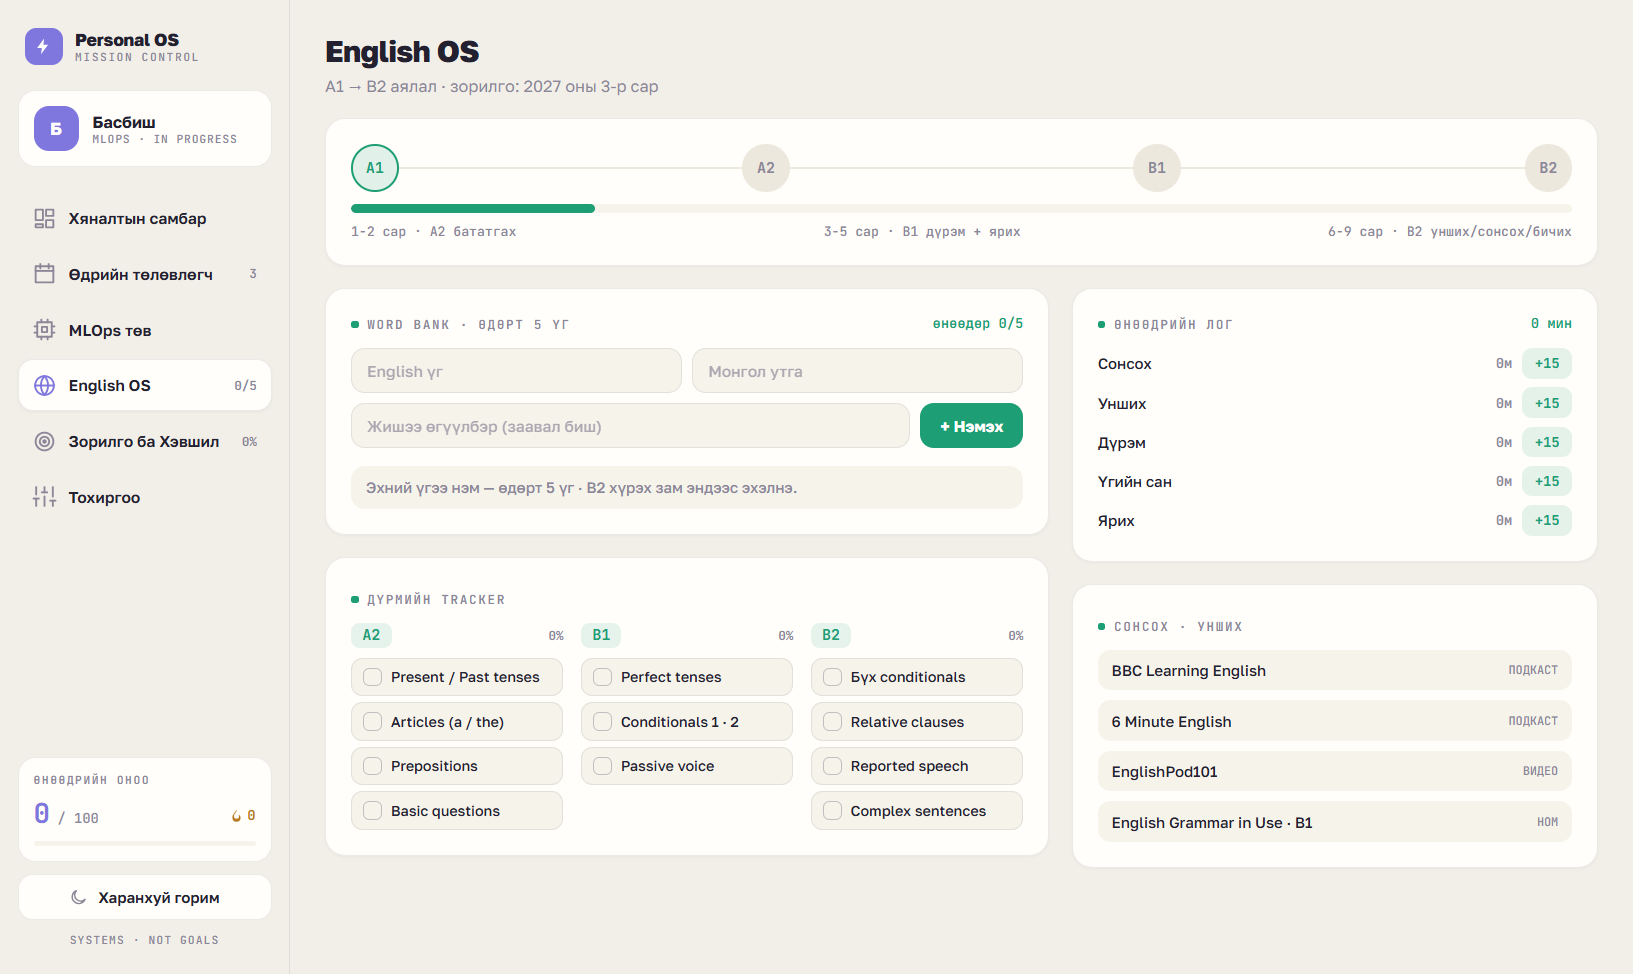
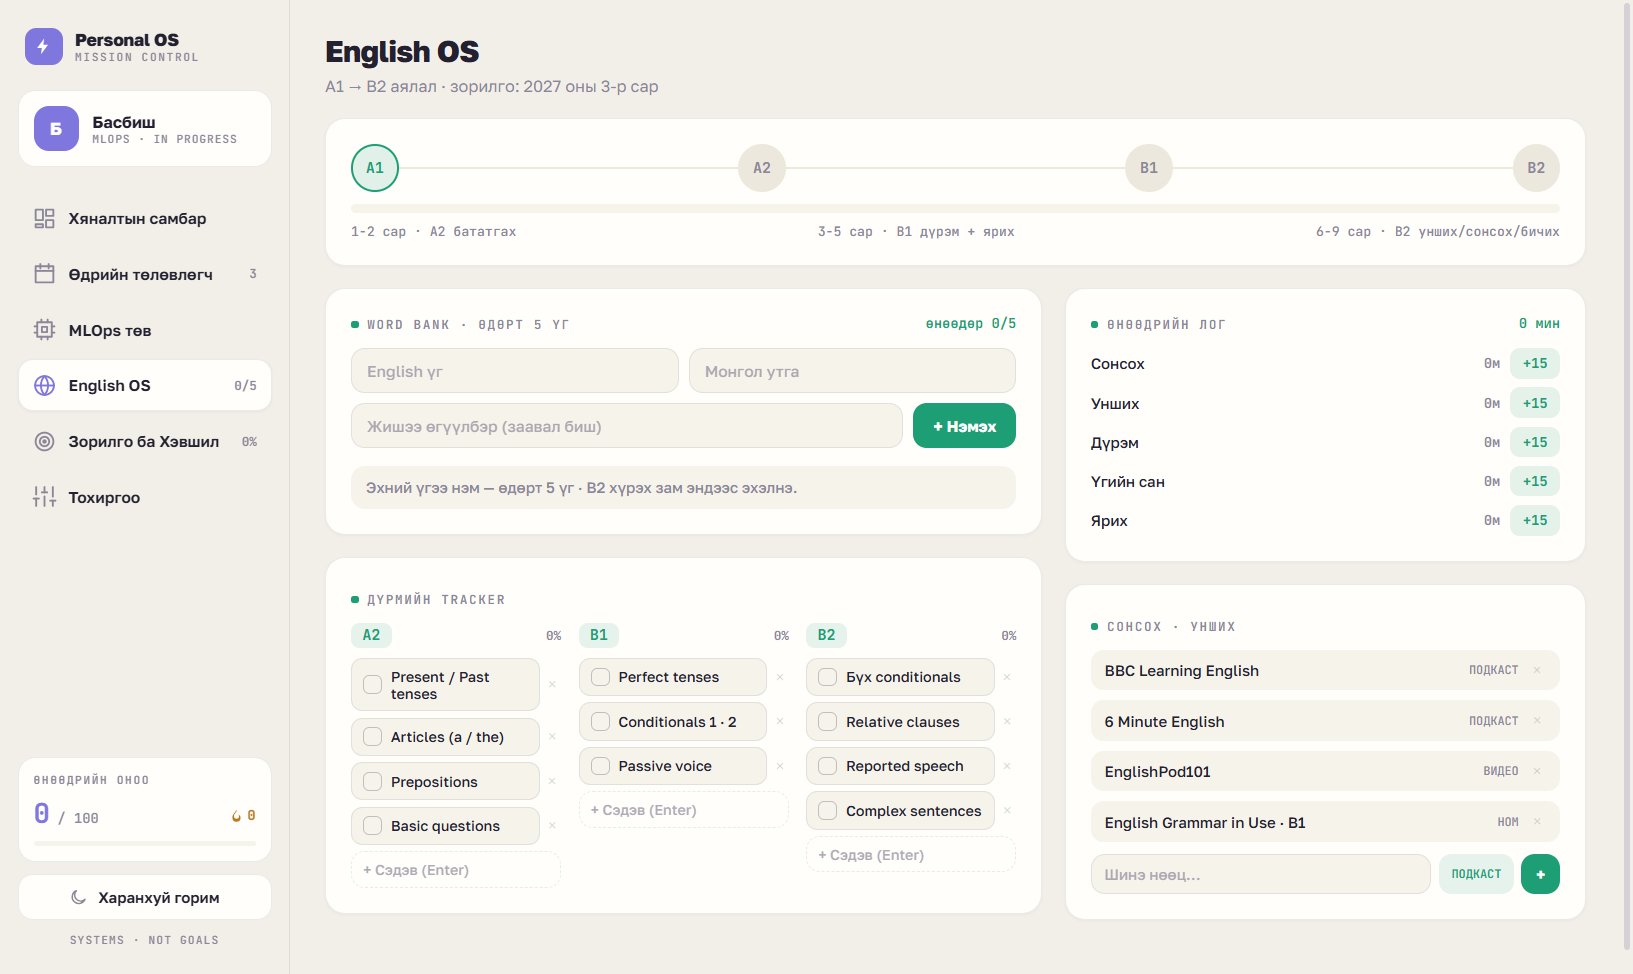
Make grammar topics, study resources and time blocks fully editable
- Grammar tracker: add topics per level (Enter to add), delete any topic
- Listening/Reading resources moved into user data: add with type
  (podcast/video/book/site/course), delete; migration keeps user edits
- Planner time blocks: inline edit mode (times, names, delete, quick-add)
  without leaving the planner; shared TimeField/DelBtn components
- Tests: migration coverage for resources (32 passing)

diff --git a/src/views/English.tsx b/src/views/English.tsx
@@ -5,19 +5,18 @@ import { FONT, MONO, WORDST, WCOL, checkbox, inputSt, primaryBtn } from '../them
 import { td } from '../lib/dates';
 import { wordsToday, engToday, engLevel } from '../lib/derive';
 import { IconX } from '../icons';
+import { DelBtn } from '../components/bits';
 
-const RESOURCES = [
-  { t: 'BBC Learning English', k: 'ПОДКАСТ' },
-  { t: '6 Minute English', k: 'ПОДКАСТ' },
-  { t: 'EnglishPod101', k: 'ВИДЕО' },
-  { t: 'English Grammar in Use · B1', k: 'НОМ' }
-];
+const RES_KINDS = ['ПОДКАСТ', 'ВИДЕО', 'НОМ', 'САЙТ', 'КУРС'];
 
 export function English() {
   const { d, commit, p } = useStore();
   const [en, setEn] = useState('');
   const [mn, setMn] = useState('');
   const [ex, setEx] = useState('');
+  const [newGr, setNewGr] = useState<Record<string, string>>({});
+  const [newRes, setNewRes] = useState('');
+  const [resKind, setResKind] = useState(0);
   const wt = wordsToday(d);
   const lvl = engLevel(d);
 
@@ -26,6 +25,24 @@ export function English() {
     const id = d.words.reduce((m, w) => Math.max(m, w.id), 0) + 1;
     d.words.unshift({ id, en: en.trim(), mn: mn.trim() || '—', ex: ex.trim(), st: 0, date: td(0) });
     setEn(''); setMn(''); setEx('');
+    commit();
+  };
+
+  const addGrammar = (lv: string) => {
+    const t = (newGr[lv] || '').trim();
+    if (!t) return;
+    const gr = d.grammar.find(g => g.lv === lv);
+    if (!gr) return;
+    gr.items.push({ t, on: false });
+    setNewGr({ ...newGr, [lv]: '' });
+    commit();
+  };
+
+  const addResource = () => {
+    if (!newRes.trim()) return;
+    const id = d.resources.reduce((m, r) => Math.max(m, r.id), 0) + 1;
+    d.resources.push({ id, t: newRes.trim(), k: RES_KINDS[resKind] });
+    setNewRes('');
     commit();
   };
 
@@ -100,7 +117,7 @@ export function English() {
             </div>
           </Card>
 
-          {/* Дүрмийн tracker */}
+          {/* Дүрмийн tracker — сэдэв нэмж/хасаж болно */}
           <Card>
             <SecLabel color={p.a2}>Дүрмийн tracker</SecLabel>
             <div style={{ display: 'grid', gridTemplateColumns: 'repeat(auto-fit,minmax(160px,1fr))', gap: 14 }}>
@@ -110,16 +127,22 @@ export function English() {
                   <div key={gr.lv} style={{ minWidth: 0 }}>
                     <div style={{ display: 'flex', alignItems: 'baseline', justifyContent: 'space-between', marginBottom: 8 }}>
                       <span style={{ font: `700 12px ${MONO}`, padding: '2px 9px', borderRadius: 7, background: p.a2 + '1c', color: p.a2 }}>{gr.lv}</span>
-                      <span style={{ font: `600 10px ${MONO}`, color: 'var(--tx2)' }}>{Math.round(on / gr.items.length * 100)}%</span>
+                      <span style={{ font: `600 10px ${MONO}`, color: 'var(--tx2)' }}>{gr.items.length ? Math.round(on / gr.items.length * 100) : 0}%</span>
                     </div>
                     <div style={{ display: 'flex', flexDirection: 'column', gap: 5 }}>
-                      {gr.items.map(gi => (
-                        <button key={gi.t} className="hv-line-acc2" onClick={() => { gi.on = !gi.on; commit(); }}
-                          style={{ display: 'flex', alignItems: 'center', gap: 7, padding: '7px 9px', borderRadius: 9, border: '1px solid var(--line)', background: 'var(--panel2)', textAlign: 'left', color: 'var(--tx)' }}>
-                          <span style={checkbox(gi.on, p.a2, p.dark, 15, 5)}>{gi.on ? '✓' : ''}</span>
-                          <span style={{ font: `500 11.5px ${FONT}`, textDecoration: gi.on ? 'line-through' : 'none', opacity: gi.on ? .55 : 1 }}>{gi.t}</span>
-                        </button>
+                      {gr.items.map((gi, gii) => (
+                        <div key={gii} style={{ display: 'flex', alignItems: 'center', gap: 3 }}>
+                          <button className="hv-line-acc2" onClick={() => { gi.on = !gi.on; commit(); }}
+                            style={{ display: 'flex', alignItems: 'center', gap: 7, flex: 1, minWidth: 0, padding: '7px 9px', borderRadius: 9, border: '1px solid var(--line)', background: 'var(--panel2)', textAlign: 'left', color: 'var(--tx)' }}>
+                            <span style={checkbox(gi.on, p.a2, p.dark, 15, 5)}>{gi.on ? '✓' : ''}</span>
+                            <span style={{ font: `500 11.5px ${FONT}`, textDecoration: gi.on ? 'line-through' : 'none', opacity: gi.on ? .55 : 1 }}>{gi.t}</span>
+                          </button>
+                          <DelBtn onClick={() => { gr.items.splice(gii, 1); commit(); }} size={10} />
+                        </div>
                       ))}
+                      <input value={newGr[gr.lv] || ''} onChange={e => setNewGr({ ...newGr, [gr.lv]: e.target.value })}
+                        onKeyDown={e => { if (e.key === 'Enter') addGrammar(gr.lv); }}
+                        placeholder="+ Сэдэв (Enter)" style={{ ...inputSt, padding: '7px 9px', font: `500 11.5px ${FONT}`, background: 'transparent', border: '1px dashed var(--line)' }} />
                     </div>
                   </div>
                 );
@@ -143,16 +166,27 @@ export function English() {
               ))}
             </div>
           </Card>
-          {/* Нөөцүүд */}
+          {/* Нөөцүүд — нэмж/хасаж болно */}
           <Card>
             <SecLabel color={p.a2}>Сонсох · Унших</SecLabel>
             <div style={{ display: 'flex', flexDirection: 'column', gap: 8, font: `500 12px ${FONT}` }}>
-              {RESOURCES.map(r => (
-                <div key={r.t} style={{ display: 'flex', alignItems: 'center', gap: 8, padding: '9px 11px', borderRadius: 10, background: 'var(--panel2)' }}>
-                  <span style={{ flex: 1, minWidth: 0 }}>{r.t}</span>
-                  <span style={{ font: `500 9.5px ${MONO}`, color: 'var(--tx2)' }}>{r.k}</span>
+              {d.resources.map(r => (
+                <div key={r.id} style={{ display: 'flex', alignItems: 'center', gap: 8, padding: '9px 11px', borderRadius: 10, background: 'var(--panel2)' }}>
+                  <span style={{ flex: 1, minWidth: 0, whiteSpace: 'nowrap', overflow: 'hidden', textOverflow: 'ellipsis' }}>{r.t}</span>
+                  <span style={{ font: `500 9.5px ${MONO}`, color: 'var(--tx2)', flex: 'none' }}>{r.k}</span>
+                  <DelBtn onClick={() => { d.resources = d.resources.filter(x => x.id !== r.id); commit(); }} size={10} />
                 </div>
               ))}
+            </div>
+            <div style={{ display: 'flex', gap: 6, marginTop: 10, flexWrap: 'wrap' }}>
+              <input value={newRes} onChange={e => setNewRes(e.target.value)} onKeyDown={e => { if (e.key === 'Enter') addResource(); }}
+                placeholder="Шинэ нөөц…" style={{ ...inputSt, flex: '1 1 110px', padding: '8px 10px', font: `500 12px ${FONT}` }} />
+              <button onClick={() => setResKind((resKind + 1) % RES_KINDS.length)}
+                style={{ flex: 'none', padding: '8px 10px', borderRadius: 10, border: 'none', background: p.a2 + '1c', color: 'var(--acc2)', font: `600 9.5px ${MONO}` }}>
+                {RES_KINDS[resKind]}
+              </button>
+              <button className="hv-bright" onClick={addResource}
+                style={{ ...primaryBtn('var(--acc2)'), padding: '8px 12px', font: `700 12px ${FONT}` }}>+</button>
             </div>
           </Card>
         </div>

diff --git a/src/views/Planner.tsx b/src/views/Planner.tsx
@@ -1,7 +1,7 @@
 import React, { useState } from 'react';
 import { useStore } from '../data/store';
 import { Card, SecLabel, PageHead, Screen } from '../components/ui';
-import { TaskRow, kvRow, kvKey, kvVal } from '../components/bits';
+import { TaskRow, kvRow, kvKey, kvVal, TimeField, DelBtn } from '../components/bits';
 import { FONT, MONO, AREAS, ACOL, PRIS, PCOL, checkbox, inputSt, primaryBtn, chip } from '../theme';
 import { td, toMin } from '../lib/dates';
 import { taskStats, overdueTasks, habitStats, blockNow, engToday } from '../lib/derive';
@@ -11,6 +11,8 @@ export function Planner() {
   const [newTask, setNewTask] = useState('');
   const [areaIdx, setAreaIdx] = useState(0);
   const [priIdx, setPriIdx] = useState(1);
+  const [editBlocks, setEditBlocks] = useState(false);
+  const [newBlockT, setNewBlockT] = useState('');
 
   const ts = taskStats(d);
   const hs = habitStats(d);
@@ -32,13 +34,29 @@ export function Planner() {
       <PageHead title="Өдрийн төлөвлөгч" sub="«Өглөө утас харахгүй байх нь хамгийн том ялалт.»" />
       <div style={{ display: 'flex', flexWrap: 'wrap', gap: 18, alignItems: 'flex-start' }}>
 
-        {/* Цагийн блокууд */}
+        {/* Цагийн блокууд — шууд эндээс нэмж/засаж/устгана */}
         <Card style={{ flex: '1 1 230px' }}>
-          <SecLabel color={p.a1}>Цагийн блокууд</SecLabel>
+          <SecLabel color={p.a1} right={
+            <button onClick={() => setEditBlocks(!editBlocks)}
+              style={{ border: 'none', borderRadius: 8, padding: '3px 10px', background: editBlocks ? 'var(--acc1)' : p.a1 + '1c', color: editBlocks ? '#fff' : 'var(--acc1)', font: `700 10px ${MONO}` }}>
+              {editBlocks ? 'Болсон' : 'Засах'}
+            </button>
+          }>Цагийн блокууд</SecLabel>
           <div style={{ display: 'flex', flexDirection: 'column', gap: 6 }}>
-            {d.blocks.map(b => {
+            {[...d.blocks].sort((a, b) => a.s.localeCompare(b.s)).map(b => {
               const active = mins >= toMin(b.s) && mins < toMin(b.e);
               const past = mins >= toMin(b.e);
+              if (editBlocks) {
+                return (
+                  <div key={b.id} style={{ display: 'flex', alignItems: 'center', gap: 4, padding: '5px 6px', borderRadius: 11, background: 'var(--panel2)' }}>
+                    <TimeField value={b.s} onChange={v => { b.s = v; commit(); }} />
+                    <TimeField value={b.e} onChange={v => { b.e = v; commit(); }} />
+                    <input value={b.t} onChange={e => { b.t = e.target.value; commit(); }}
+                      style={{ ...inputSt, flex: 1, padding: '6px 8px', font: `500 12px ${FONT}`, background: 'var(--panel)' }} />
+                    <DelBtn onClick={() => { d.blocks = d.blocks.filter(x => x.id !== b.id); commit(); }} />
+                  </div>
+                );
+              }
               return (
                 <div key={b.id} style={{ display: 'flex', alignItems: 'center', gap: 8, padding: '9px 11px', borderRadius: 11, background: active ? p.a1 + '16' : 'var(--panel2)', border: '1px solid ' + (active ? p.a1 + '66' : 'transparent'), opacity: past ? .5 : 1 }}>
                   <span style={{ font: `600 10.5px ${MONO}`, width: 76, flex: 'none', color: 'var(--tx2)' }}>{b.s}–{b.e}</span>
@@ -47,6 +65,21 @@ export function Planner() {
                 </div>
               );
             })}
+            {editBlocks && (
+              <div style={{ display: 'flex', gap: 6, marginTop: 4 }}>
+                <input value={newBlockT} onChange={e => setNewBlockT(e.target.value)}
+                  onKeyDown={e => {
+                    if (e.key === 'Enter' && newBlockT.trim()) {
+                      const id = d.blocks.reduce((m, x) => Math.max(m, x.id), 0) + 1;
+                      const lastE = [...d.blocks].sort((a, b) => a.e.localeCompare(b.e)).pop()?.e || '18:00';
+                      d.blocks.push({ id, s: lastE === '23:59' ? '18:00' : lastE, e: '23:59', t: newBlockT.trim() });
+                      setNewBlockT('');
+                      commit();
+                    }
+                  }}
+                  placeholder="+ Шинэ блок (Enter)" style={{ ...inputSt, flex: 1, padding: '8px 10px', font: `500 12px ${FONT}`, background: 'transparent', border: '1px dashed var(--line)' }} />
+              </div>
+            )}
           </div>
         </Card>
 

diff --git a/src/components/bits.tsx b/src/components/bits.tsx
@@ -1,7 +1,7 @@
-import React, { CSSProperties } from 'react';
+import React, { CSSProperties, useEffect, useState } from 'react';
 import { useStore } from '../data/store';
 import { Task } from '../types';
-import { FONT, MONO, ACOL, PCOL, checkbox, chip } from '../theme';
+import { FONT, MONO, ACOL, PCOL, checkbox, chip, inputSt } from '../theme';
 import { IconX } from '../icons';
 
 /** Даалгаврын мөр — Dashboard болон Planner-т хамтдаа хэрэглэнэ */
@@ -52,3 +52,34 @@ export function GoBtn({ onClick, hvClass, children }: { onClick: () => void; hvC
 export const kvRow: CSSProperties = { display: 'flex', justifyContent: 'space-between', gap: 8 };
 export const kvKey: CSSProperties = { color: 'var(--tx2)' };
 export const kvVal: CSSProperties = { fontFamily: MONO, fontWeight: 700 };
+
+export const timeInputSt: CSSProperties = { ...inputSt, padding: '6px 8px', font: `600 12px ${MONO}`, width: 62, flex: 'none', textAlign: 'center' };
+
+/** 24 цагийн HH:MM текст input — Windows-ийн 12ц локалиас хамаарахгүй */
+export function TimeField({ value, onChange }: { value: string; onChange: (v: string) => void }) {
+  const [txt, setTxt] = useState(value);
+  useEffect(() => setTxt(value), [value]);
+  const done = () => {
+    const m = /^(\d{1,2})[:.]?(\d{2})$/.exec(txt.trim());
+    if (m) {
+      const v = String(Math.min(23, parseInt(m[1]))).padStart(2, '0') + ':' + String(Math.min(59, parseInt(m[2]))).padStart(2, '0');
+      setTxt(v);
+      if (v !== value) onChange(v);
+    } else setTxt(value);
+  };
+  return (
+    <input value={txt} onChange={e => setTxt(e.target.value)} onBlur={done}
+      onKeyDown={e => { if (e.key === 'Enter') (e.target as HTMLInputElement).blur(); }}
+      placeholder="HH:MM" style={timeInputSt} />
+  );
+}
+
+/** Жижиг устгах товч (hover-т улаан) */
+export function DelBtn({ onClick, size = 11, opacity = .35 }: { onClick: () => void; size?: number; opacity?: number }) {
+  return (
+    <button className="hv-red" title="Устгах" onClick={onClick}
+      style={{ border: 'none', background: 'none', color: 'var(--tx2)', opacity, padding: 2, display: 'inline-flex', borderRadius: 5, flex: 'none' }}>
+      <IconX size={size} />
+    </button>
+  );
+}

diff --git a/src/views/Settings.tsx b/src/views/Settings.tsx
@@ -5,6 +5,7 @@ import { FONT, MONO, inputSt, primaryBtn } from '../theme';
 import { DAY_NAMES } from '../lib/dates';
 import { IconX, IconBell, IconDownload, IconUpload } from '../icons';
 import { Reminder } from '../types';
+import { TimeField } from '../components/bits';
 
 function Toggle({ on, onChange, color = 'var(--acc2)' }: { on: boolean; onChange: (v: boolean) => void; color?: string }) {
   return (
@@ -19,26 +20,6 @@ function Row({ children }: { children: React.ReactNode }) {
   return <div style={{ display: 'flex', alignItems: 'center', gap: 10, padding: '10px 12px', borderRadius: 11, background: 'var(--panel2)' }}>{children}</div>;
 }
 
-const timeInputSt: React.CSSProperties = { ...inputSt, padding: '6px 8px', font: `600 12px 'JetBrains Mono', monospace`, width: 62, flex: 'none', textAlign: 'center' };
-
-/** 24 цагийн HH:MM текст input — Windows-ийн 12ц локалиас хамаарахгүй */
-function TimeField({ value, onChange }: { value: string; onChange: (v: string) => void }) {
-  const [txt, setTxt] = useState(value);
-  useEffect(() => setTxt(value), [value]);
-  const done = () => {
-    const m = /^(\d{1,2})[:.]?(\d{2})$/.exec(txt.trim());
-    if (m) {
-      const v = String(Math.min(23, parseInt(m[1]))).padStart(2, '0') + ':' + String(Math.min(59, parseInt(m[2]))).padStart(2, '0');
-      setTxt(v);
-      if (v !== value) onChange(v);
-    } else setTxt(value);
-  };
-  return (
-    <input value={txt} onChange={e => setTxt(e.target.value)} onBlur={done}
-      onKeyDown={e => { if (e.key === 'Enter') (e.target as HTMLInputElement).blur(); }}
-      placeholder="HH:MM" style={timeInputSt} />
-  );
-}
 
 export function Settings() {
   const { d, commit, p, replaceData } = useStore();

diff --git a/src/data/defaults.ts b/src/data/defaults.ts
@@ -90,6 +90,12 @@ export function defaults(): AppData {
         ]
       }
     ],
+    resources: [
+      { id: 1, t: 'BBC Learning English', k: 'ПОДКАСТ' },
+      { id: 2, t: '6 Minute English', k: 'ПОДКАСТ' },
+      { id: 3, t: 'EnglishPod101', k: 'ВИДЕО' },
+      { id: 4, t: 'English Grammar in Use · B1', k: 'НОМ' }
+    ],
     engLog: { date: TD, mins: { 'Сонсох': 0, 'Унших': 0, 'Дүрэм': 0, 'Үгийн сан': 0, 'Ярих': 0 } },
     mlLog: { date: TD, mins: 0 },
     history: {},
@@ -135,6 +141,7 @@ export function migrate(saved: Partial<AppData> | null): AppData {
   merged.mlLog = saved.mlLog && typeof saved.mlLog === 'object' ? saved.mlLog : base.mlLog;
   merged.routineSteps = Array.isArray(saved.routineSteps) && saved.routineSteps.length ? saved.routineSteps : base.routineSteps;
   merged.blocks = Array.isArray(saved.blocks) && saved.blocks.length ? saved.blocks : base.blocks;
+  merged.resources = Array.isArray(saved.resources) ? saved.resources : base.resources;
   if (!Array.isArray(merged.routine?.items)) merged.routine = base.routine;
   // routine items тоо алхмуудтай тэнцүү байх ёстой
   if (merged.routine.items.length !== merged.routineSteps.length) {

diff --git a/tests/migrate.test.ts b/tests/migrate.test.ts
@@ -39,13 +39,19 @@ describe('migrate', () => {
     expect(d.routine.items).toEqual([true, false, false]);
   });
 
-  it('дутуу шинэ талбаруудыг (mlLog, history, reminders) нөхнө', () => {
+  it('дутуу шинэ талбаруудыг (mlLog, history, reminders, resources) нөхнө', () => {
     const saved = { theme: 'dark', userName: 'Басбиш' } as Partial<AppData>;
     const d = migrate(saved);
     expect(d.theme).toBe('dark');
     expect(d.mlLog.mins).toBe(0);
     expect(d.history).toEqual({});
     expect(d.reminders.enabled).toBe(true);
+    expect(d.resources.length).toBe(4);
+  });
+
+  it('хэрэглэгч бүх нөөцөө устгасан бол хоосон хэвээр үлдээнэ', () => {
+    const d = migrate({ resources: [] } as Partial<AppData>);
+    expect(d.resources).toEqual([]);
   });
 
   it('хэрэглэгчийн сануулгууд дефолтоор дарагдахгүй', () => {

diff --git a/src/types.ts b/src/types.ts
@@ -42,6 +42,8 @@ export interface Word {
 
 export interface GrammarLevel { lv: string; items: { t: string; on: boolean }[] }
 
+export interface Resource { id: number; t: string; k: string }
+
 export interface TimeBlock { id: number; s: string; e: string; t: string }
 
 export type SmartKind = 'routine' | 'english' | 'mlops';
@@ -73,6 +75,7 @@ export interface AppData {
   projects: Project[];
   words: Word[];
   grammar: GrammarLevel[];
+  resources: Resource[];
   engLog: { date: string; mins: Record<string, number> };
   mlLog: { date: string; mins: number };
   history: Record<string, DayLog>; // бодит өдөр тутмын судалгааны түүх
